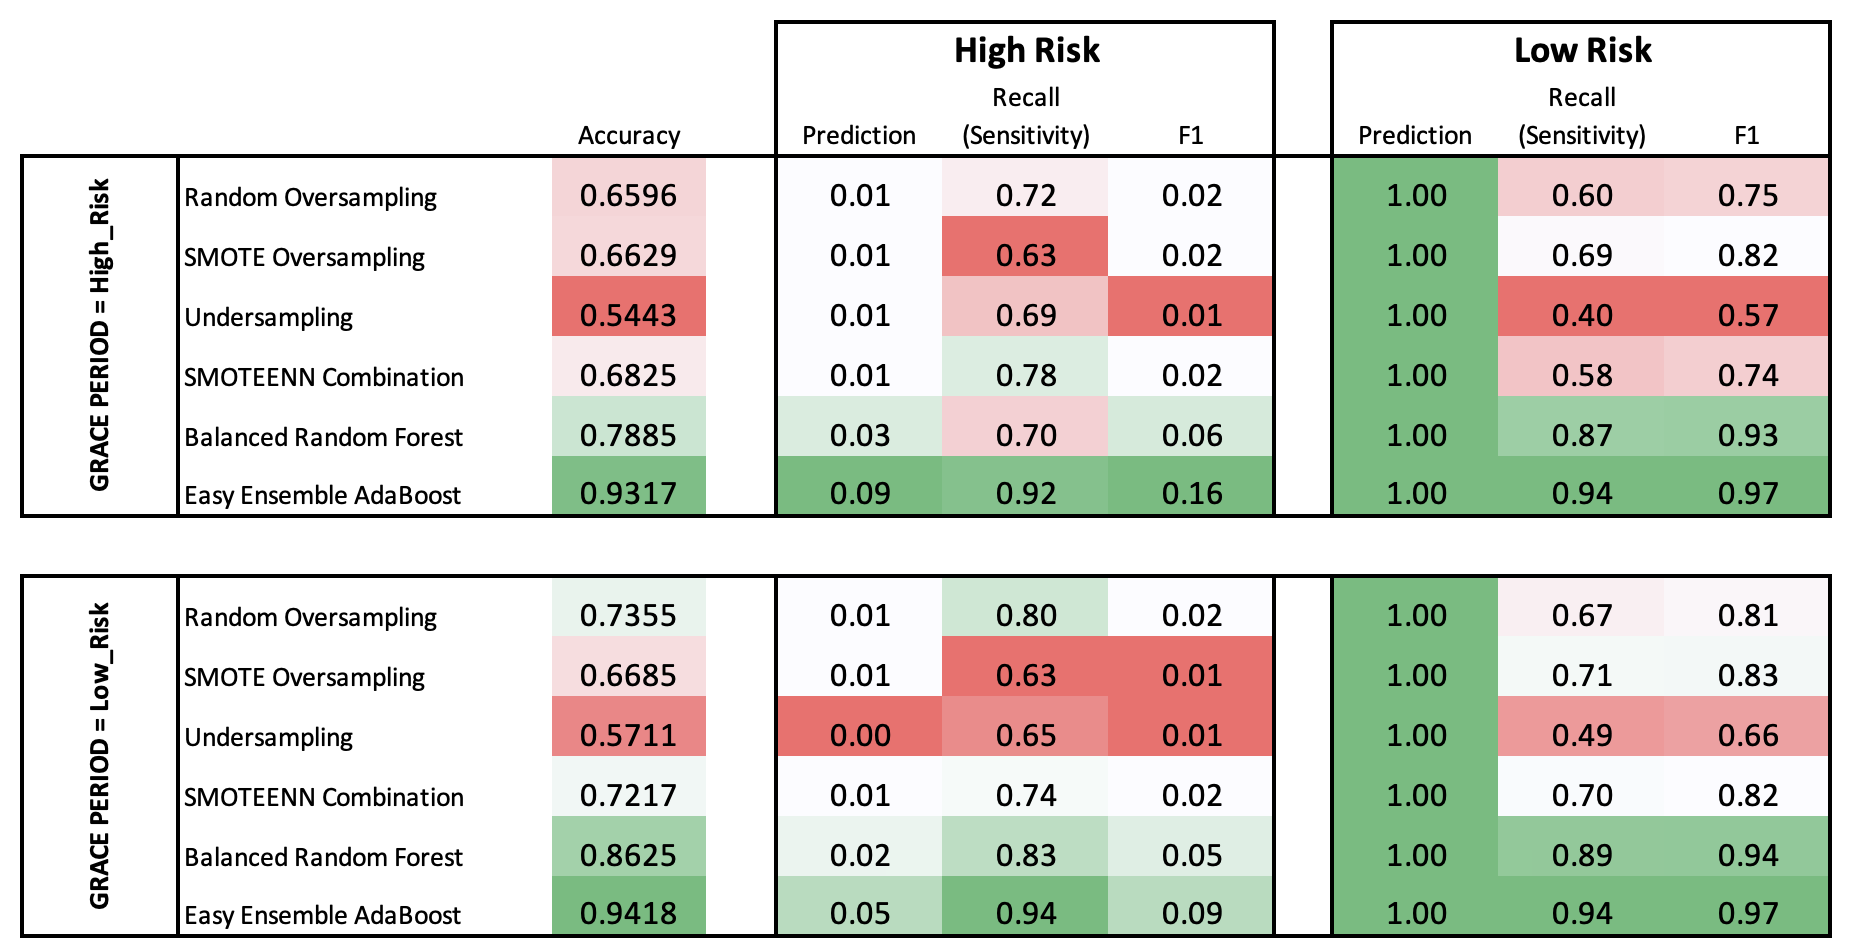
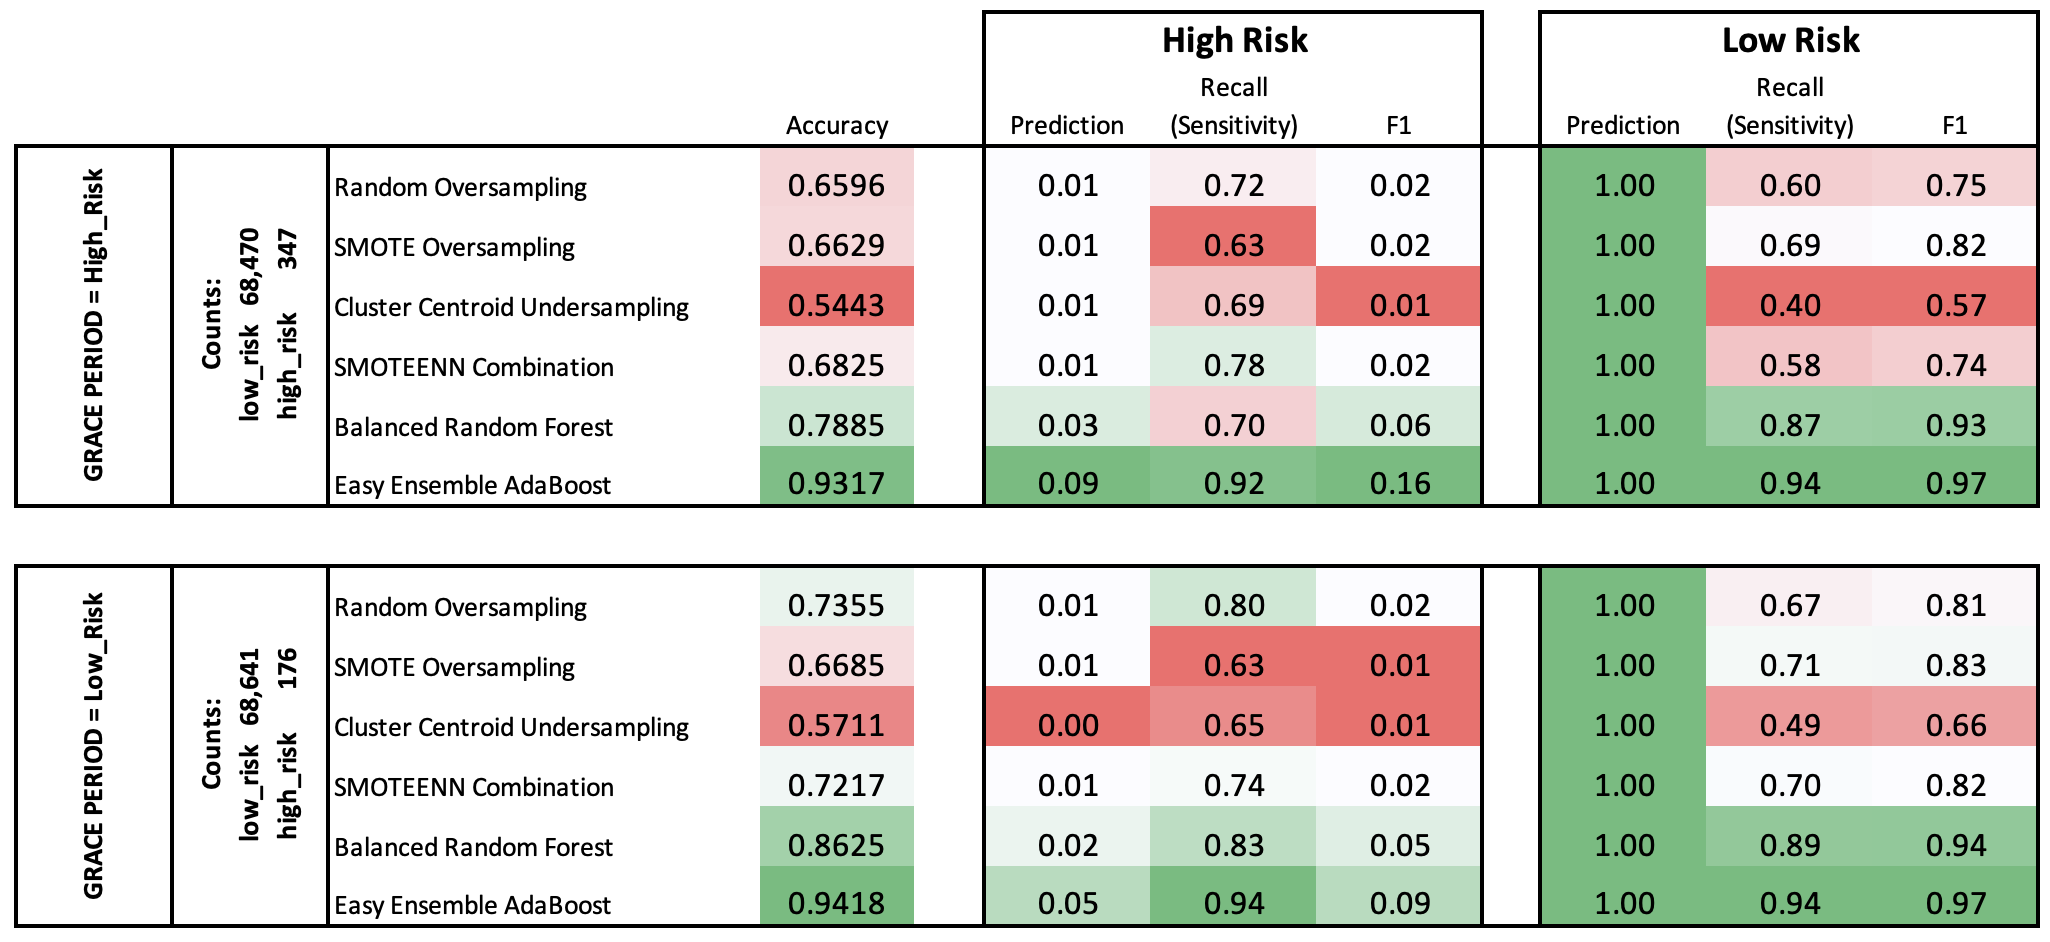
adding features to readme.

diff --git a/README.md b/README.md
@@ -12,7 +12,7 @@ This analysis is based on credit card credit datasets from *LendingClub*, a peer
 
 Before implementing the machine learning models, the categorized data fields to be used as features were encoded into numerical values using the *get_dummies()* method. 
 
-The target field for our prediction was *loan_status* as a proxy for credit risk   defined as a binary outcome, even though the data had more granularity to it. Low risk card loans were defined as those with *loan_status* as current in their payment. Card loans with overdue payments, including those within the grace perdiod (first 15 days), as well as those in the buckets comprised of 16-30 days overdue, 30-120 days overdue, and those in default (beyond 120 days), were defined as high risk.  
+The target field for our prediction was *loan_status* as a proxy for credit risk   defined as a binary outcome, even though the data had more granularity to it. Low risk card loans were defined as those with *loan_status* as current in their payment. Card loans with overdue payments, including those within the grace perdiod (first 15 days), as well as those in the buckets comprised of 16-30 days overdue, 30-120 days overdue, and those in default (beyond 120 days), were defined as high risk. With this split, the data amounts to 68,470 low risk accounts and 347 hight risk accounts. 
 
 The data was split into training and testing sets using *sklearn*'s *train_test_split()* function.
 
@@ -59,7 +59,10 @@ The output reported by the models is presented in the following code sections:
 
 The report of feature importance is presented below, sorted in descending order (from most to least important feature), along with the feature score.
 
-![Feature Importance](Resources/images/)
+![Feature Importance](Resources/images/features_1.png)
+![Feature Importance](Resources/images/features_2.png)
+![Feature Importance](Resources/images/features_3.png)
+
 
 ### Easy Ensemble Classifier
 
@@ -69,48 +72,10 @@ The report of feature importance is presented below, sorted in descending order 
 
 As can be established from the different statistics of the models, none of the models was very good at predicting high risk card loans, although most of them had good prediction of low risk loans. The Random Forest and Ensemble models faired better in both respects than the different sampling-based models.
 
-In addition to the models, we also ran a second set of each, changing the criteria for low and high risk. In this second run, we considered that credit card loans still in within the grace period would also be considered low-risk, in order to determine if we could improve on the model that way. After running our models, we saw a very slight improvement in the accuracy statistic, but no significant improvement in the prediction statistic for high-risk. By redefining our risk criteria, this resulted in an even smaller number of high-risk training data points.
+In addition to the models, we also ran a second set of each, changing the criteria for low and high risk. In this second run, we considered that credit card loans still in within the grace period would also be considered low-risk, in order to determine if we could improve on the model that way. After running our models, we saw a very slight improvement in the accuracy statistic, but no significant improvement in the prediction statistic for high-risk. By redefining our risk criteria, this resulted in an even smaller number of high-risk training data points (68,641 low risk and 176 high risk, which is almost half the number in the original analysis, making the problem of data balance more challenging).
 
 The summary table below compares our findings.
 
 ![Summary Table for All Models](/Resources/images/Summary_tables_all_models.png)
 
 Should we recommend this model? Based on the low prediction statistic for high-risk loans, it is unlikely we would recommend it. However, the relevent question is defining the desired risk appetite and establishing an acceptable balance between accurate prediction of high risk loans vs low risk loans. Choosing a model that improves the prediction of high risk loans could reducde the accuracy of predicting low-risk loans, and some good business would be sacrificed. Again, it is all a matter of defining an acceptable balance and cut-off point.
-
-
-
-
-
-
-
-
-
-
-the  
-wasyou’ll oversample the data using the RandomOverSampler and SMOTE algorithms, and undersample the data using the ClusterCentroids algorithm. Then, you’ll use a combinatorial approach of over- and undersampling using the SMOTEENN algorithm. Next, you’ll compare two new machine learning models that reduce bias, *BalancedRandomForestClassifier* and *EasyEnsembleClassifier*, to predict credit risk. 
-
-Once you’re done, you’ll evaluate the performance of these models and make a written recommendation on whether they should be used to predict credit risk.
-
-
-
-
-
-
-
-
-The report should contain the following:
-
-Overview of the analysis: Explain the purpose of this analysis.
-
-Results: Using bulleted lists, describe the balanced accuracy scores and the precision and recall scores of all six machine learning models. Use screenshots of your outputs to support your results.
-
-* There is a bulleted list that describes the balanced accuracy score and the precision and recall scores of all six machine learning models (15 pt)
-
-
-Summary: Summarize the results of the machine learning models, and include a recommendation on the model to use, if any. If you do not recommend any of the models, justify your reasoning.
-
-
-
-* There is a summary of the results (2 pt)
-
-* There is a recommendation on which model to use, or there is no recommendation with a justification (3 pt)
